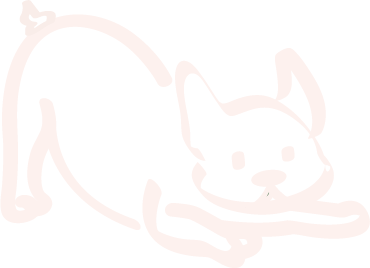
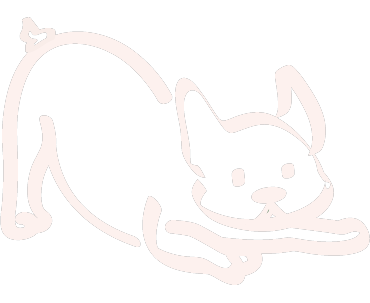
fetch!: normalize motif sizes, fix menu/socials layout per feedback
Menu & Packaging now uses a trio layout so all 3 images show in full
(the old full-page/full-page-two-up boxes were cropping/parallaxing
them). Socials drops the parallax + green-flattened background for a
plain two-up of the transparent phone mockups floating side by side.
Padded the two off-ratio Frenchie motifs so all 3 render at the same
visual size instead of the tallest one dominating.

diff --git a/src/data/projectDetails.ts b/src/data/projectDetails.ts
@@ -71,8 +71,8 @@ import fetchMenuMockupPink from '../assets/images/projects/detail/fetch-doggy-de
 import fetchMenuFlatPink from '../assets/images/projects/detail/fetch-doggy-deli/menu-flat-pink.jpg'
 import fetchMenuFlatGreen from '../assets/images/projects/detail/fetch-doggy-deli/menu-flat-green.jpg'
 import fetchTruckSide from '../assets/images/projects/detail/fetch-doggy-deli/truck-side.jpg'
-import fetchSocialOrganic from '../assets/images/projects/detail/fetch-doggy-deli/social-organic.jpg'
-import fetchSocialPaid from '../assets/images/projects/detail/fetch-doggy-deli/social-paid.jpg'
+import fetchSocialOrganic from '../assets/images/projects/detail/fetch-doggy-deli/social-organic.png'
+import fetchSocialPaid from '../assets/images/projects/detail/fetch-doggy-deli/social-paid.png'
 
 import usIntroCrowd from '../assets/images/projects/detail/urban-seoul/intro-crowd.jpg'
 import usIdeationPhoto from '../assets/images/projects/detail/urban-seoul/ideation-campaign-photo.jpg'
@@ -997,9 +997,9 @@ export const PROJECT_DETAILS: Record<string, ProjectDetailData> = {
         layout: 'cluster',
         imagesOnCard: false,
         images: [
-          { src: fetchMotif1, alt: 'fetch! line-drawn Frenchie motif, playing', width: 370, height: 268, size: 'sm' },
+          { src: fetchMotif1, alt: 'fetch! line-drawn Frenchie motif, playing', width: 370, height: 303, size: 'sm' },
           { src: fetchMotif2, alt: 'fetch! line-drawn Frenchie motif, stretching', width: 439, height: 360, size: 'sm' },
-          { src: fetchMotif3, alt: 'fetch! line-drawn Frenchie motif, curled up', width: 255, height: 314, size: 'sm' },
+          { src: fetchMotif3, alt: 'fetch! line-drawn Frenchie motif, curled up', width: 383, height: 314, size: 'sm' },
         ],
       },
       {
@@ -1022,27 +1022,25 @@ export const PROJECT_DETAILS: Record<string, ProjectDetailData> = {
         label: 'Menu & Packaging',
         collapsible: true,
         text: 'The menu is full of pup-safe sandwiches with playful names — the Pawstrami, Bark-B-Q Sliders, Pupperoni Panini — plus treats and "From the Bowl" options. Packaging carries illustrated bowls, paw-print cups and lids, and "bone appétit." bone broth pouches, rounded out by a biscuit bar and a paw-shaped pawsicle. Takeaway boxes carry the tagline "bring it back for seconds."',
-        layout: 'full-page-two-up',
+        layout: 'trio',
         images: [
           {
             src: fetchMenuMockupPink,
             alt: 'fetch! menu card mockup',
+            width: 2000,
+            height: 1334,
           },
           {
             src: fetchMenuFlatPink,
             alt: 'fetch! menu, pink flat design',
+            width: 2000,
+            height: 1399,
           },
-        ],
-        moreImages: [
           {
-            layout: 'full-page',
-            tall: true,
-            images: [
-              {
-                src: fetchMenuFlatGreen,
-                alt: 'fetch! menu, green flat design',
-              },
-            ],
+            src: fetchMenuFlatGreen,
+            alt: 'fetch! menu, green flat design',
+            width: 935,
+            height: 2000,
           },
         ],
       },
@@ -1063,22 +1061,20 @@ export const PROJECT_DETAILS: Record<string, ProjectDetailData> = {
         label: 'Socials',
         collapsible: true,
         text: 'Organic content mixes food shots, park scenes, and candid dog moments, while paid ads announce park locations and the LA launch. A consistent profile, highlight covers, and feed grid keep it cohesive — carrying the "come back for seconds" spirit.',
-        layout: 'full-page',
+        layout: 'two-up',
+        imagesOnCard: false,
         images: [
           {
             src: fetchSocialOrganic,
             alt: 'fetch! organic Instagram profile and highlight covers',
+            width: 1719,
+            height: 2000,
           },
-        ],
-        moreImages: [
           {
-            layout: 'full-page',
-            images: [
-              {
-                src: fetchSocialPaid,
-                alt: 'fetch! paid Instagram feed ad and story ad',
-              },
-            ],
+            src: fetchSocialPaid,
+            alt: 'fetch! paid Instagram feed ad and story ad',
+            width: 2000,
+            height: 1256,
           },
         ],
       },
